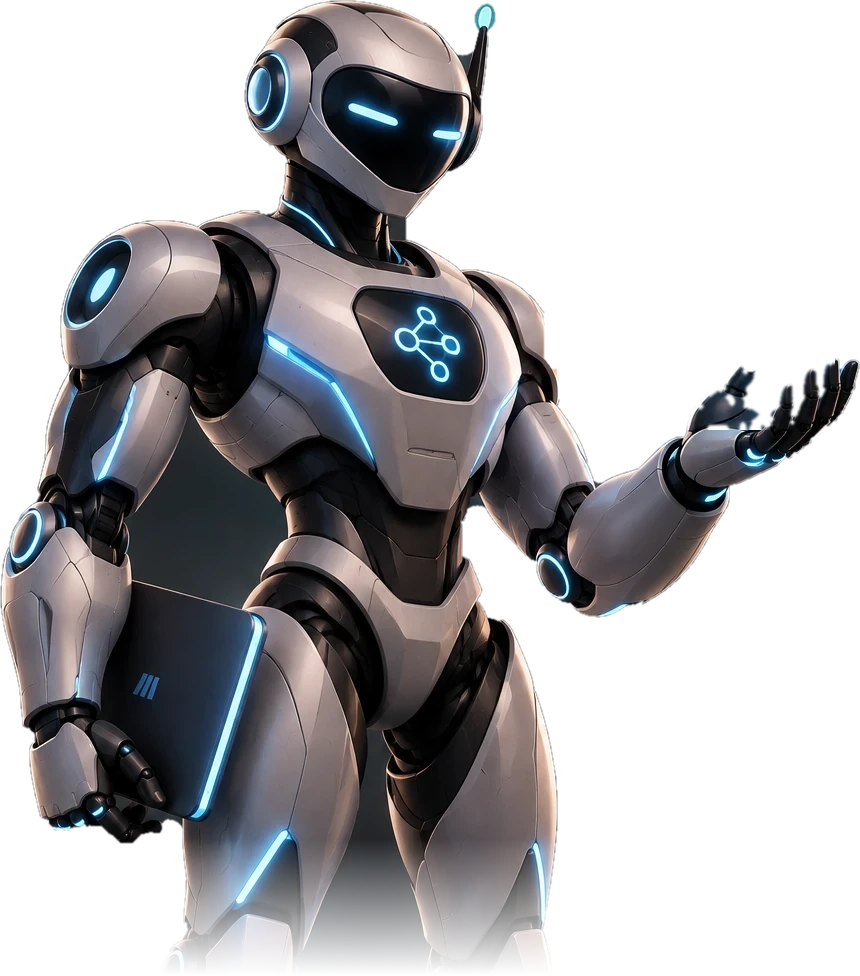
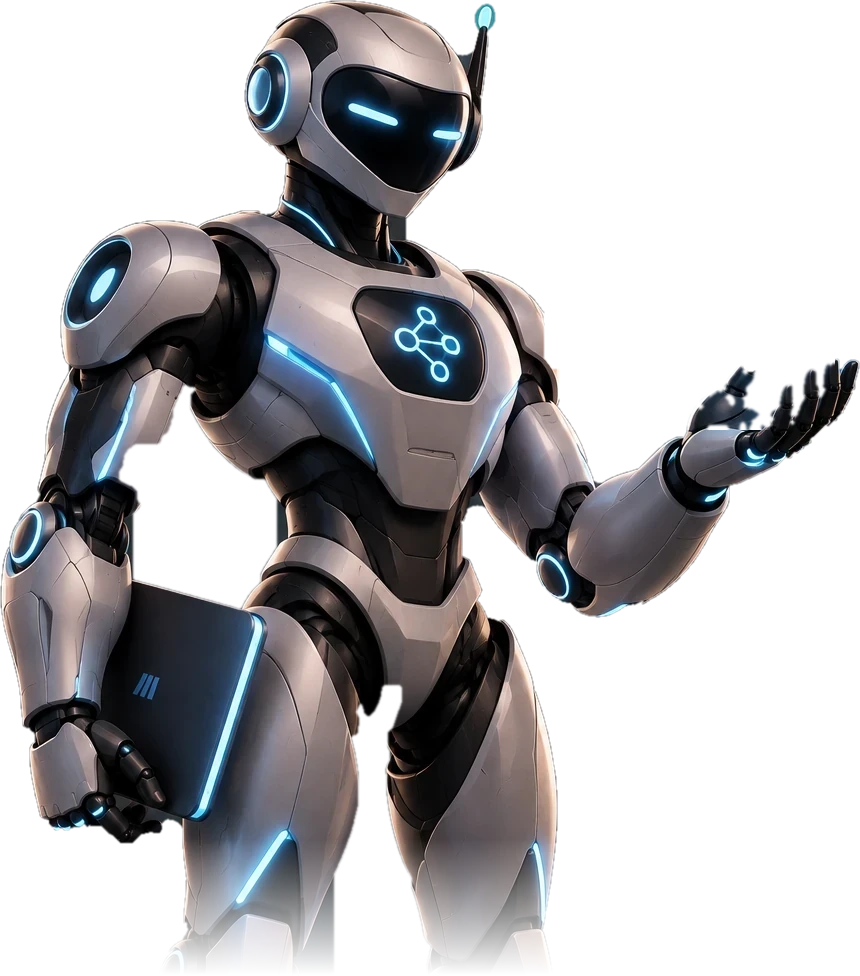
Keep the gaps around the robots white in light mode
- assets/robot-hero.webp: the cutout still carried opaque patches of the
  original dark render background between the thighs and inside the crook
  between the laptop arm and the torso. Those patches are now transparent;
  the robot itself and its leg fade are untouched.
- Light mode drops the robot drop-shadow and the floor glow and uses a
  fainter haze, so nothing grey fills the space between the limbs.

Claude-Session: https://claude.ai/code/session_01KCkcxK2qKhdrP7aoCCgDDs

Changed region(s): [[0.1209, 0.3996, 0.3326, 0.6455], [0.3628, 0.707, 0.514, 0.9836]]

diff --git a/css/site.css b/css/site.css
@@ -418,5 +418,8 @@ h2.mask .ml:nth-child(2) span{transition-delay:.08s}h2.mask .ml:nth-child(3) spa
 /* light theme: things tokens cannot express */
 :root[data-theme=light] .holo-panel img{mix-blend-mode:normal;opacity:1;border:1px solid var(--border)}
 :root[data-theme=light] .robot-scene .visor{opacity:.6}
+/* light: no cast shadow or floor glow, so the gaps between the robot's limbs stay white */
+:root[data-theme=light] .robot-scene .robot{filter:none}
+:root[data-theme=light] .robot-scene .floor{display:none}
 :root[data-theme=light] .pipe button.lit{box-shadow:0 0 0 3px rgba(var(--accent-rgb),.12),0 0 18px -4px rgba(var(--accent-rgb),.3)}
 :root[data-theme=light] .orbit .sat text{fill:var(--text-2)}

diff --git a/css/tokens.css b/css/tokens.css
@@ -42,8 +42,7 @@
   --shadow-stack:0 -12px 40px -20px rgba(15,23,42,.18);
   --shadow-core:0 20px 40px -24px rgba(15,23,42,.25);
   --shadow-uc:0 40px 80px -40px rgba(15,23,42,.28);
-  --robot-shadow:0 24px 40px rgba(15,23,42,.22);
-  --scene-light:rgba(11,122,142,.08); --scene-floor:rgba(11,122,142,.14);
+  --scene-light:rgba(11,122,142,.05);
 }
 @media(max-width:900px){:root{--sec:80px;--s5:48px}}
 @media(max-width:600px){:root{--sec:60px;--s5:40px;--s4:28px}}
